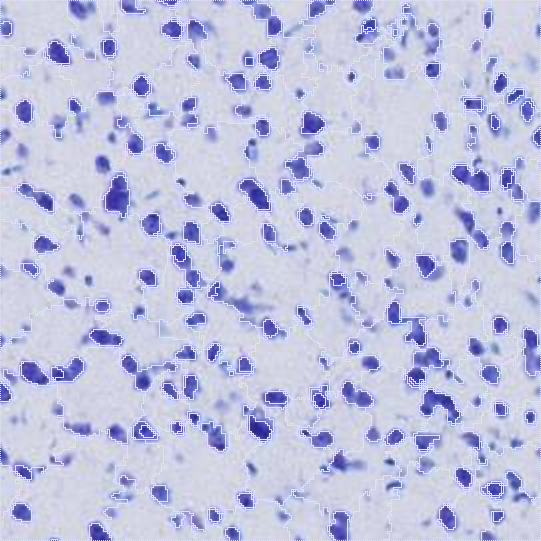
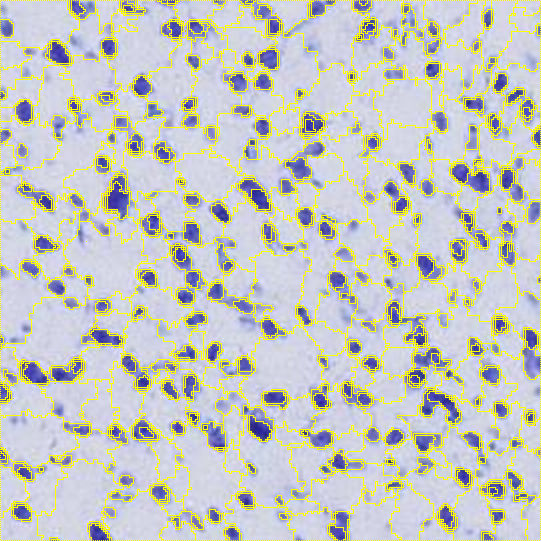
pyqt

diff --git a/PYQT/mba_data_access.py b/PYQT/mba_data_access.py
@@ -10,6 +10,7 @@ import matplotlib as plt
 from skimage.segmentation import quickshift, mark_boundaries
 from skimage.future import graph
 import matplotlib
+import json
 def returnImg(threSize):
     image_url = "http://brainarchitecture.org/fcgi-bin/iipsrv.fcgi?FIF=/PMD2057/PMD2057%262056-N9-2015.03.12-02.58.18_PMD2057_1_0025.jp2&GAM=1&WID=1087&RGN=0.5435,0.4529166666666667,0.04529166666666667,0.04529166666666667&MINMAX=1:10,255&MINMAX=3:10,255&MINMAX=2:10,255&CVT=jpeg"
     print(threSize)
@@ -43,8 +44,9 @@ def returnImg(threSize):
                                        weight_func=_weight_mean_color)
     res1 = mark_boundaries(im_2_2, labels1,mode='subpixel')
     res2 = mark_boundaries(im_2_2, labels2, mode='outer')
-    matplotlib.image.imsave("PYQT/samples/test.png", res2)
-   
+    matplotlib.image.imsave("samples/test.png", res2)
+    with open('samples/person.txt', 'w') as json_file:
+               json.dump(int(labels2.max()), json_file)
     #exec(open('CorrectSlider.py').read(),myVars)
     #if not False:
      #   plt.figure(figsize = (18,18))
@@ -60,10 +62,6 @@ def returnImg(threSize):
     #from CorrectSlider import __init__
    # exec(open('CorrectSlider.py.py').read(),myVars)
     print("end")
-    matplotlib.image.imsave('PYQT/samples/initial_tessellation.png',(255*res1).astype('uint8'))
-    matplotlib.image.imsave('PYQT/samples/rag_hier_merged.png',(255*res2).astype('uint8'))
-    matplotlib.image.imsave('PYQT/samples/first_pass_labels.png',labels2.astype('uint8'))
-
-
-
-
+    matplotlib.image.imsave('samples/initial_tessellation.png',(255*res1).astype('uint8'))
+    matplotlib.image.imsave('samples/rag_hier_merged.png',(255*res2).astype('uint8'))
+    matplotlib.image.imsave('samples/first_pass_labels.png',labels2.astype('uint8'))

diff --git a/PYQT/CorrectSlider.py b/PYQT/CorrectSlider.py
@@ -1,16 +1,18 @@
 import sys
+import json
 from PyQt5 import QtWidgets, QtGui,QtCore
 from PyQt5.QtCore import Qt
-from PyQt5.QtWidgets import QSlider,QPushButton,QLabel
+from PyQt5.QtWidgets import QSlider,QPushButton,QLabel,QMessageBox
 from mba_data_access import returnImg
 
+image1="tile_500um.png"
 
 class MainWindow():
     def __init__(self):
         self.app=QtWidgets.QApplication(sys.argv)
         self.window=QtWidgets.QMainWindow()
-        self.imagepath="PYQT/samples/tile_500um.png"
-        self.imagepath2="PYQT/samples/test.png"
+        self.imagepath="tile_500um.png"
+        self.imagepath2="samples/test.png"
         self.initGui()
         self.window.setWindowTitle("Crowd Cell")
         self.window.setGeometry(500,200,500,550)
@@ -93,17 +95,23 @@ class MainWindow():
         self.label.setPixmap(self.pixmapImage)
         #size = self.slider.value()
         self.l3.setText(str(value))
-    
-       
-    
-    
-   
-       
+        with open('samples/person.txt') as json_file:
+                  data = json.load(json_file)
+        #print(data)
+        msg = QtWidgets.QMessageBox(self.window)
+        msg.setWindowTitle("Segmented Cells")
+        msg.setGeometry(700,400,800,500)
+        msg.setText(str(data))
+        msg.show()
+
+
     def on_click(self):
         
         self.image=QtGui.QImage(self.imagepath2)
         self.pixmapImage=QtGui.QPixmap.fromImage(self.image)
         self.label.setPixmap(self.pixmapImage)
        # return (image2)
+
+   
         
 main=MainWindow()

diff --git a/app.py b/app.py
@@ -1,6 +1,6 @@
 from flask import Flask, request
 from flask import render_template
-#from flaskwebgui import FlaskUI
+from flaskwebgui import FlaskUI
 from mba_data_access import returnImg
 import requests
 from matplotlib import pyplot as plt
@@ -14,7 +14,7 @@ from matplotlib.figure import Figure
 import os
 
 app = Flask(__name__)
-#ui = FlaskUI(app) #browser_path=r"E\chrome\chrome.exe"
+ui = FlaskUI(app) #browser_path=r"E\chrome\chrome.exe"
 
 @app.route("/", methods = ['POST', 'GET'])
 def hello():
@@ -36,4 +36,5 @@ def home():
 	return render_template('index.html', kernSize = kernSize, thresSize = thresSize, file = file)
 
 if __name__ == "__main__":
-    app.run(debug=True)
+	ui.run()
+	#app.run(debug=True)
